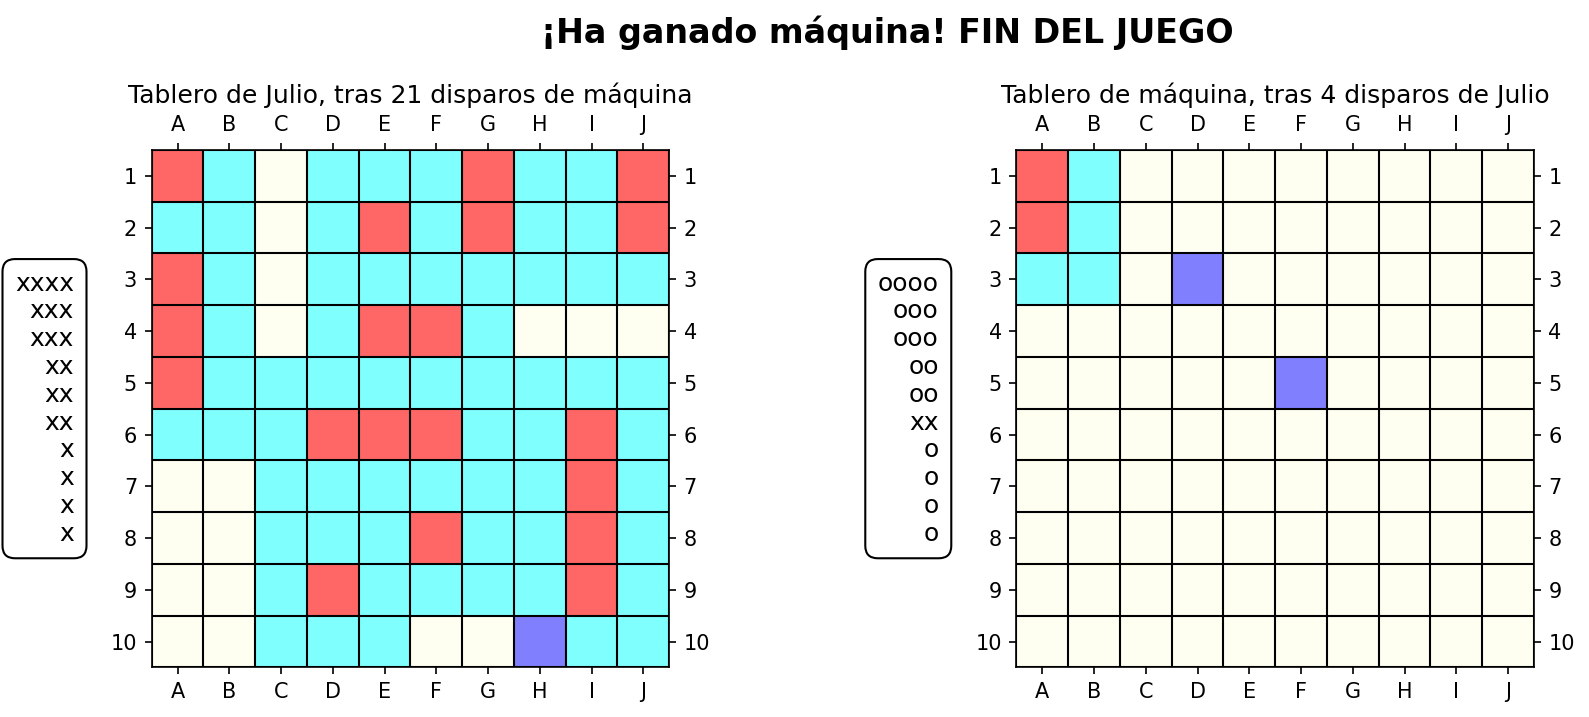
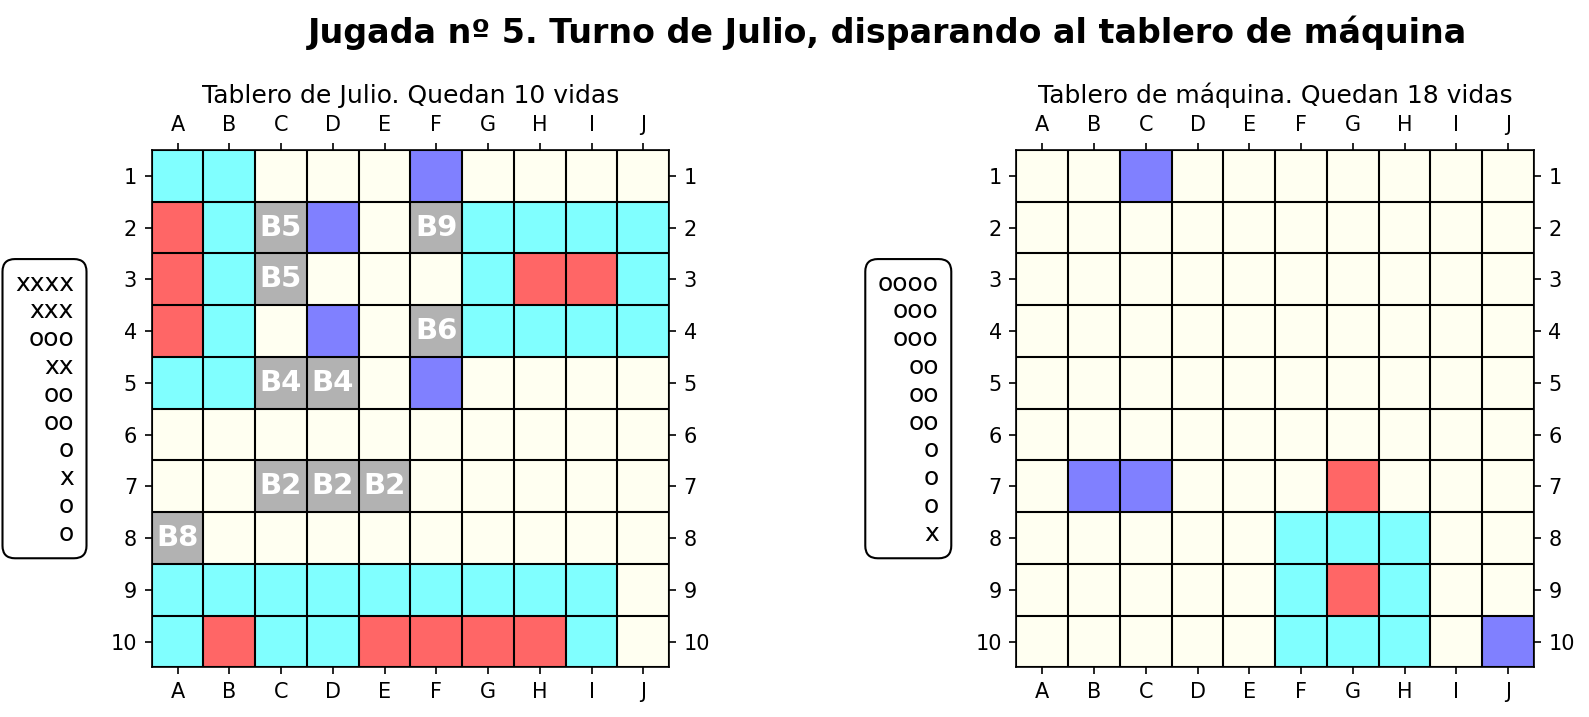
Clase 23/10/2026

diff --git a/1-RampUp/9-Hundir la flota/src/variables.py b/1-RampUp/9-Hundir la flota/src/variables.py
@@ -56,11 +56,11 @@ b_coloc_auto = True
 
 
 # Nivel de dificultad del juego. Opciones: 
-#   - 1, 2, 3: corresponde al nº máximo de intentos de disparo de la máquina en su turno. 
-#   - '1+', '2+', '3+': igual que los correspondientes niveles sin '+', haciendo más 
+#   - 1, 2, 3, ..., 9: corresponde al nº máximo de intentos de disparo de la máquina en su turno. 
+#   - '1+', '2+', '3+', ..., '9+': igual que los correspondientes niveles sin '+', haciendo más 
 #     inteligentes los disparos de la máquina. Disparará primero a las celdas adyacentes 
 #     a barcos tocados no hundidos. 
-nivel = '9+'
+nivel = '3+'
 intelig_maq = False
 if type(nivel) == int:
     nint_maq = nivel
